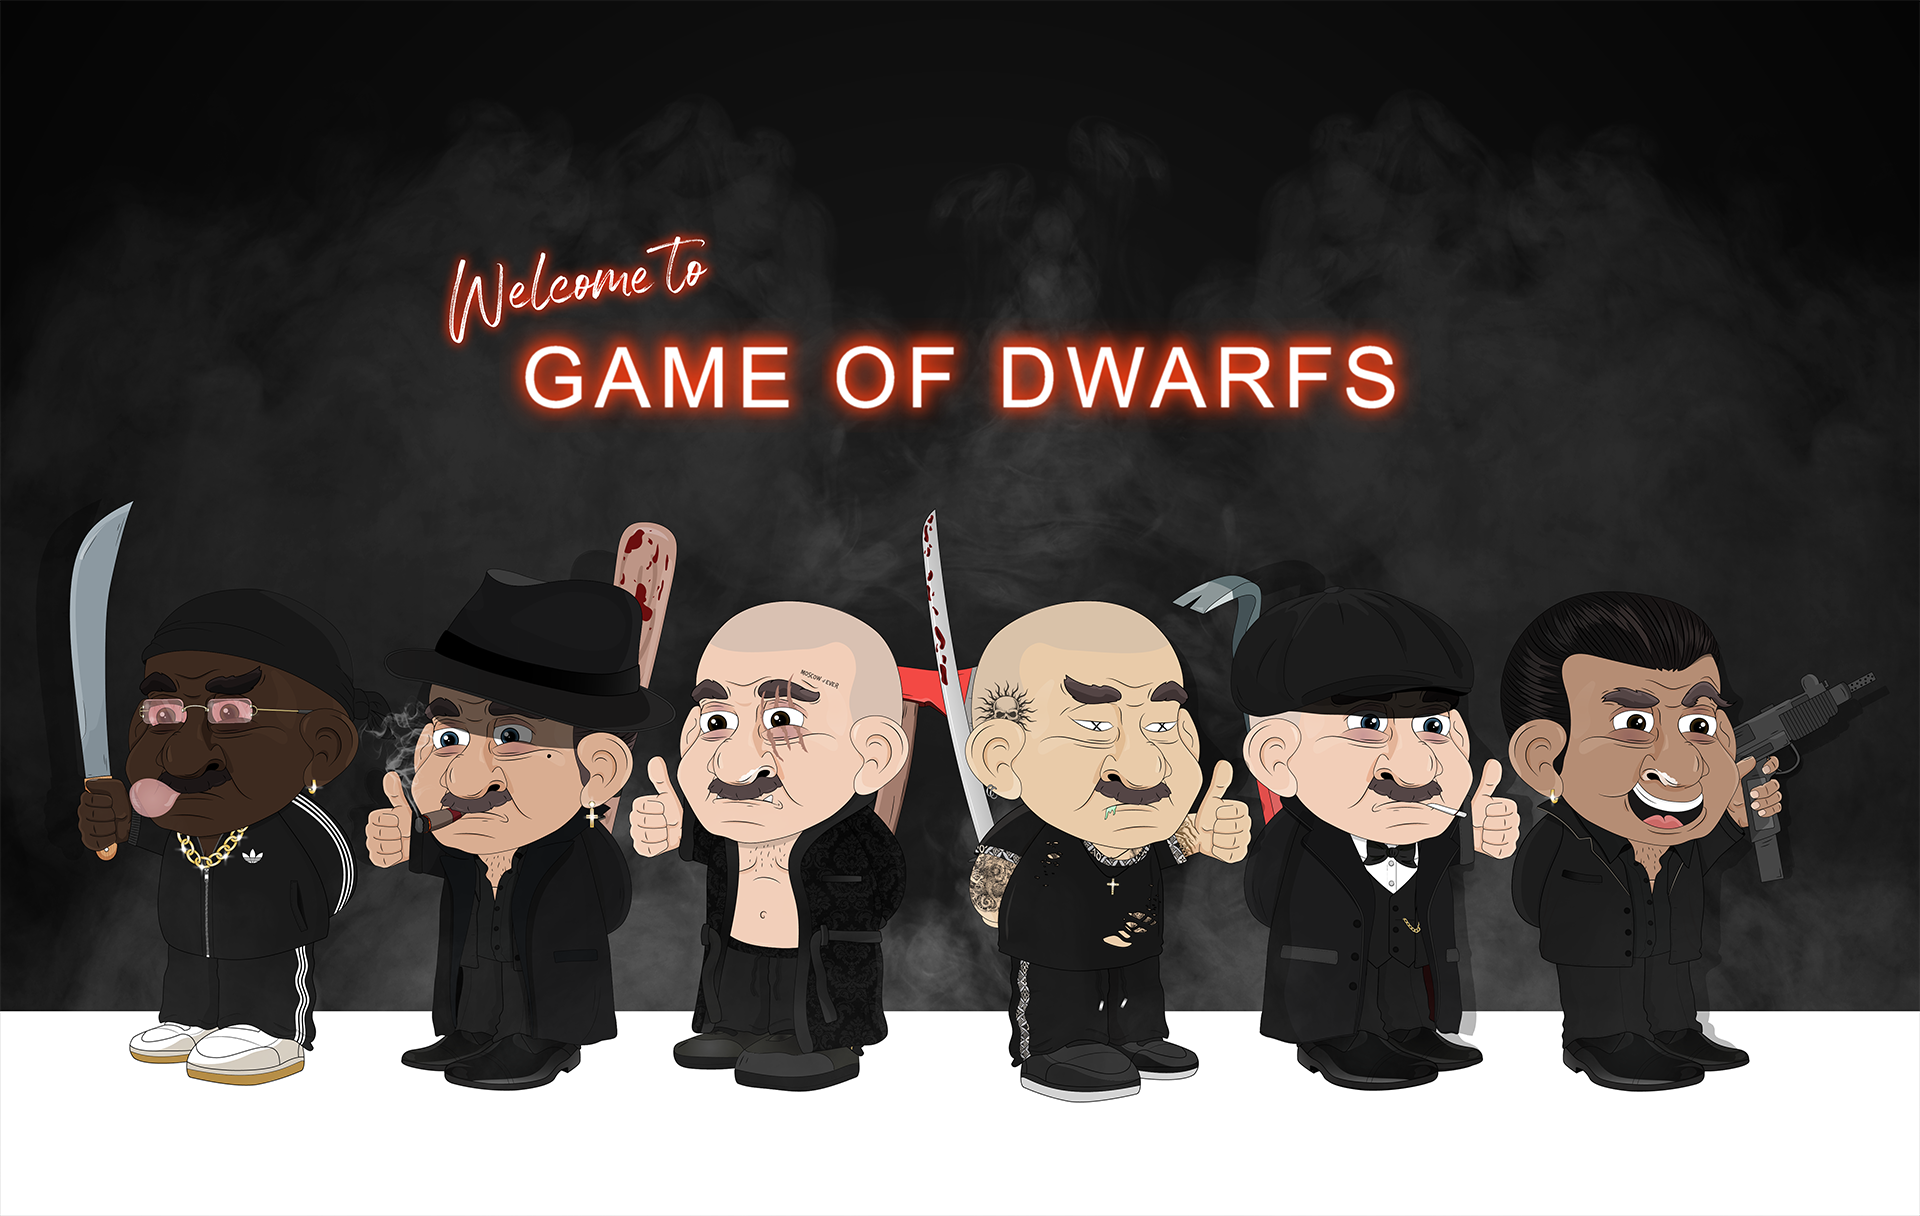
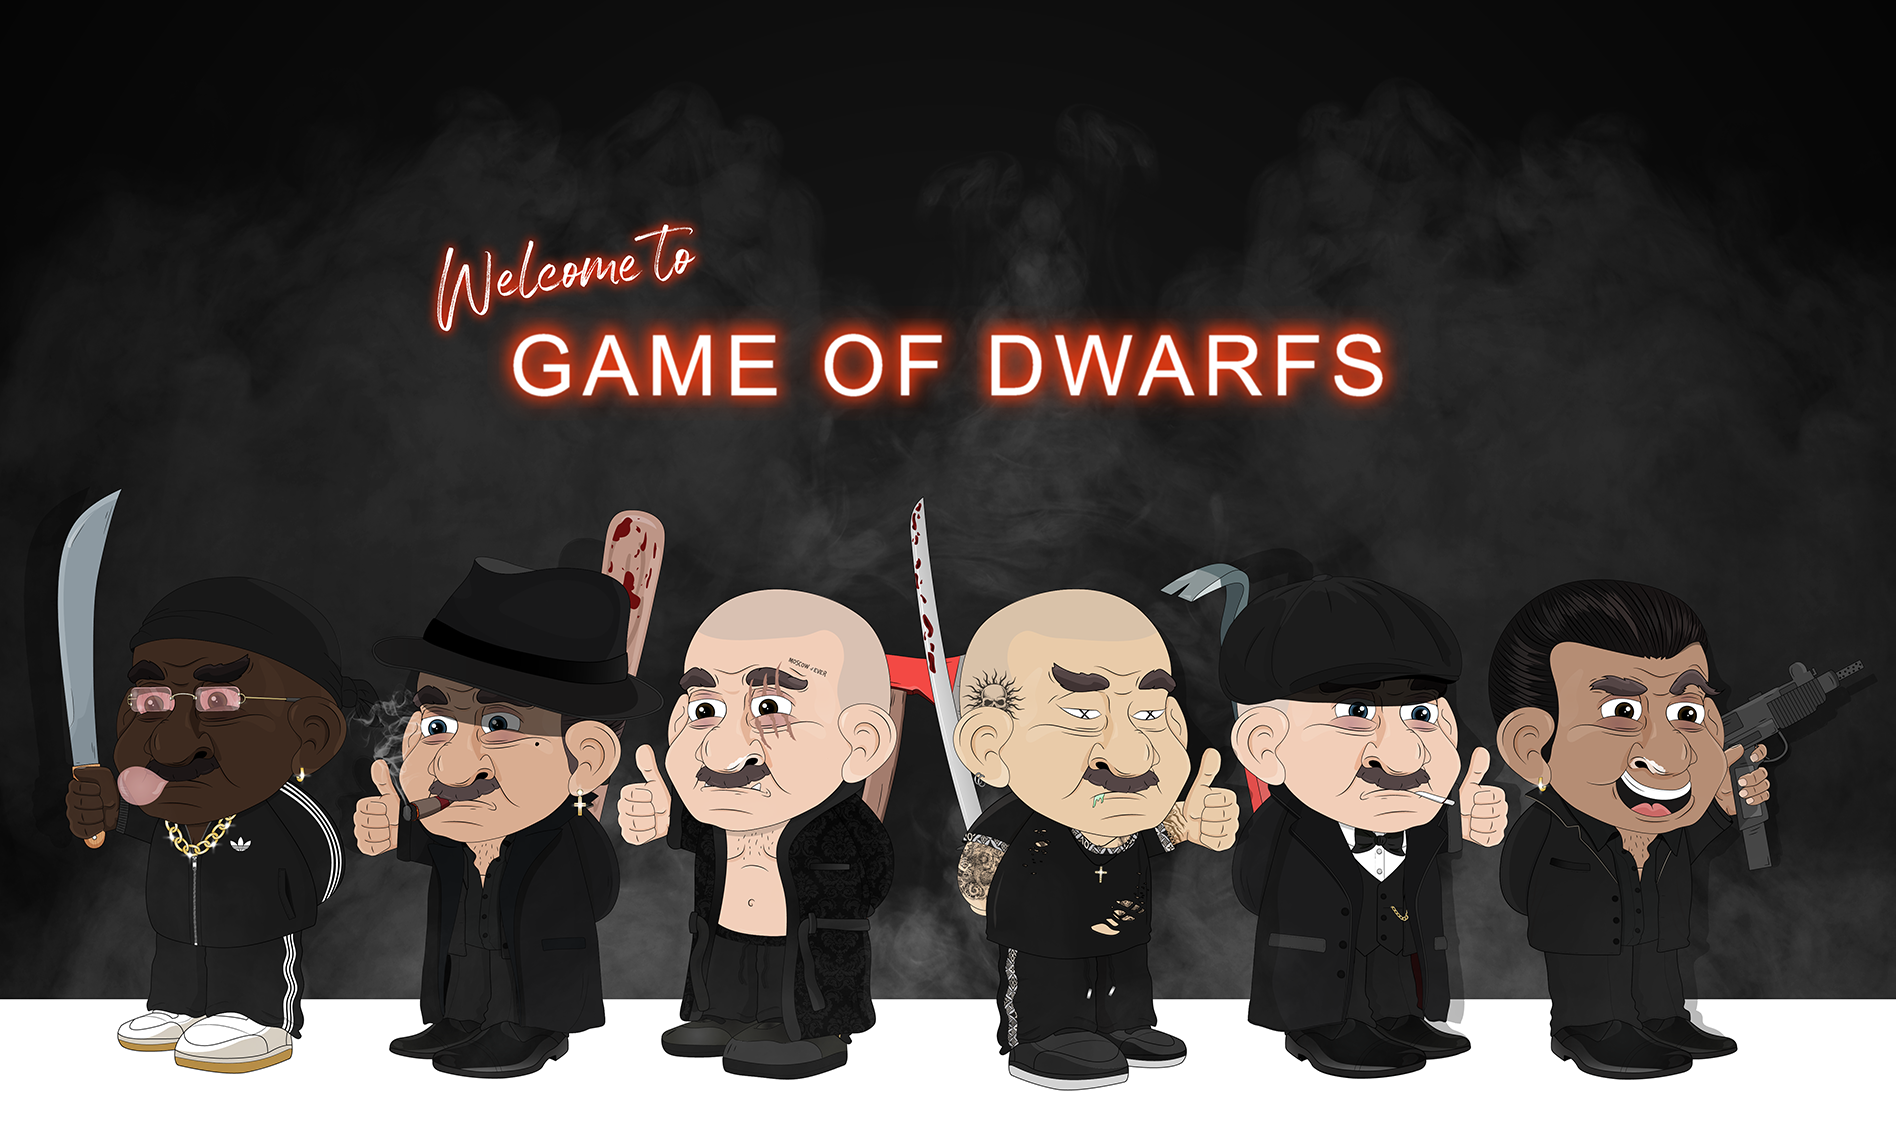
Update GOD website

Changed region(s): [[0.0, 0.4052, 1.0, 0.9662], [0.2178, 0.187, 0.7468, 0.374]]

diff --git a/src/components/header.jsx b/src/components/header.jsx
@@ -1,5 +1,6 @@
 
 import { useState, useEffect } from "react";
+import bannerImg from "../assets/img/banner.png";
 import discordImg from "../assets/img/social/icons8-discord-64.png";
 import discordHoverImg from "../assets/img/social/icons8-discord-64-hover.png";
 
@@ -20,14 +21,15 @@ export const Header = (props) => {
   
   return (
     <header id='header'>
-      <div className='intro'>
-        <div className='overlay'>
+      <div className='intro intro-text'>
+        {/* <div className='overlay'>
           <div className='container'>
-            <div className='col-md-8 col-md-offset-2 intro-text'>
+            <div className='col-md-8 col-md-offset-2 intro-text'> */}
+              <img src={bannerImg} alt=""></img>
               <a href='/mint' className='btn btn-custom btn-lg page-scroll' onMouseEnter={() => setIsHover(true)} onMouseLeave={() => setIsHover(false)}>Join Discord<img src={isHover || isMobile ? discordHoverImg : discordImg} alt=""></img></a>{' '}
-            </div>
+            {/* </div>
           </div>
-        </div>
+        </div> */}
       </div>
     </header>
   )

diff --git a/src/App.css b/src/App.css
@@ -484,9 +484,9 @@ a:focus,
 .intro {
     display: table;
     width: 100%;
-    height: 1200px;
+    height: auto;
     padding: 0;
-    background: url(./assets/img/banner.png) center center no-repeat;
+    /* background: url(./assets/img/banner.png) center center no-repeat; */
     background-color: #fff;
     -webkit-background-size: cover;
     -moz-background-size: cover;
@@ -527,7 +527,7 @@ a:focus,
 }
 
 .intro a {
-    margin-top: 1120px;
+    margin-top: 20px;
 }
 
 header .intro-text {
@@ -1052,7 +1052,7 @@ label {
         height: auto;
     }
     .intro a {
-        margin-top: 320px;
+        margin-top: 20px;
     }
     .btn-custom {
         opacity: 1.0;
